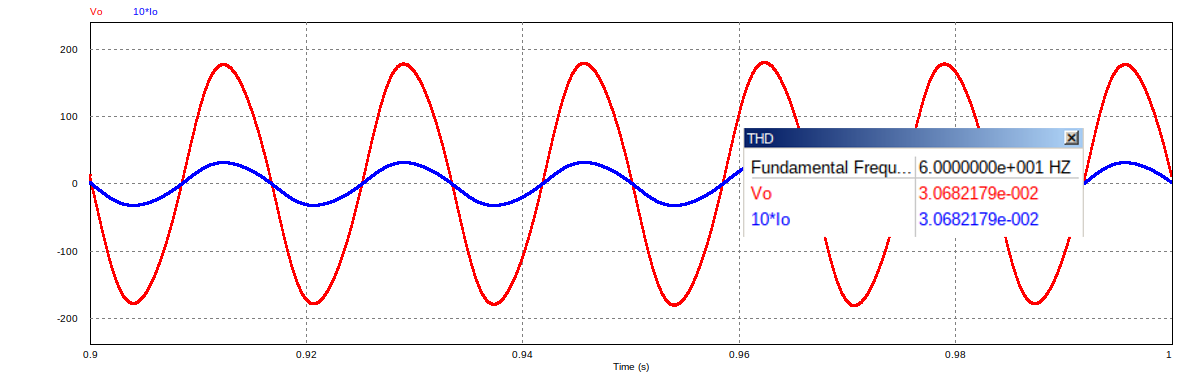
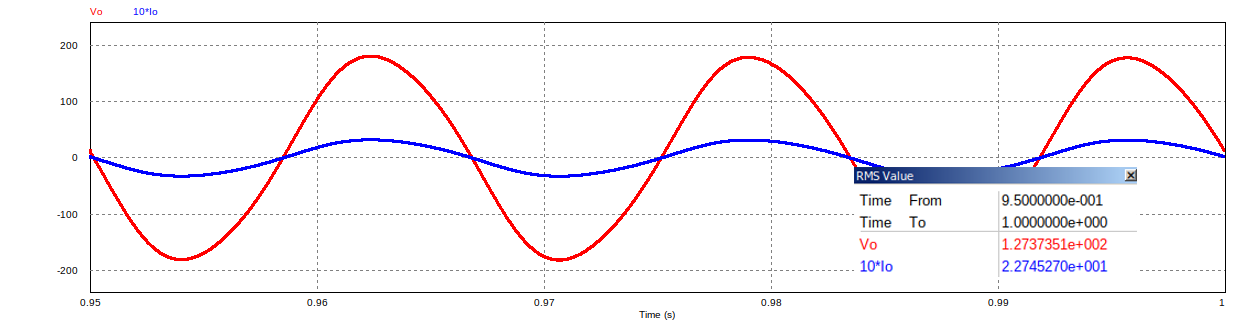
ftt changes, rewrite of analisis and conclusion

diff --git a/abntex2-modelo-trabalho-academico-TCC-EngaEletrica.tex b/abntex2-modelo-trabalho-academico-TCC-EngaEletrica.tex
@@ -1536,7 +1536,7 @@ Todas as figuras de circuitos desse capítulo são apresentadas também no anexo
 
 O circuito implementado no PSIM para o conjunto que utiliza o conversor cuk convencional conectado ao inversor bipolar, com rastreamento de ponto máximo de potência é apresentado na figura~\ref{fig:comp_conv_circ_clean}. Além disso, a tabela~\ref{tab:conv_bip_res} apresenta os principais resultados encontrados através da simulação deste circuito.
 
-Na figura~\ref{fig:out_conv_bip} são apresentados tensão e corrente de saída, ampliada em dez vezes, com informação da distorção harmônica total desses sinais, considerando frequência base de 60Hz. O espectro de frequências da tensão de saída obtida pode ser analisada na figura~\ref{fig:fft_conv_bip} e ajuda a compreender a THD apresentada na figura~\ref{fig:out_conv_bip}.
+Na figura~\ref{fig:out_conv_bip} são apresentados tensão e corrente de saída, ampliada em dez vezes. O espectro de frequências da tensão de saída obtida pode ser analisada na figura~\ref{fig:fft_conv_bip},  com informação da distorção harmônica total da tensão, considerando frequência base de 60Hz.
 
 Já a figura~\ref{fig:comp_conv_var_s_bip} mostra os sinais de entrada e saída do conjunto para alterações na irradiância que alimenta o painel fotovoltaico.
 
@@ -1556,7 +1556,7 @@ Já a figura~\ref{fig:comp_conv_var_s_bip} mostra os sinais de entrada e saída 
 		\hline
 		\rowcolor[HTML]{C0C0C0} 
 		\textbf{Corrente de saída eficaz} & \textbf{Corrente de ripple}   & \textbf{Tensão de saída eficaz} & \textbf{Tensão de Ripple}   & \textbf{Potência de saída}    & \textbf{Rendimento}   & \textbf{THD}                \\ \hline
-		\multicolumn{1}{|c|}{$2,26 A$}      & \multicolumn{1}{c|}{$20,21 mA$} & \multicolumn{1}{c|}{$126,55 V$}   & \multicolumn{1}{c|}{$1,26 V$} & \multicolumn{1}{c|}{$286,00 W$} & \multicolumn{1}{c|}{$95,33\%$} & \multicolumn{1}{c|}{$0,81\%$} \\ \hline
+		\multicolumn{1}{|c|}{$2,26 A$}      & \multicolumn{1}{c|}{$20,21 mA$} & \multicolumn{1}{c|}{$126,55 V$}   & \multicolumn{1}{c|}{$1,13 V$} & \multicolumn{1}{c|}{$286,00 W$} & \multicolumn{1}{c|}{$95,33\%$} & \multicolumn{1}{c|}{$1,20\%$} \\ \hline
 		\end{tabular}%
 	}
 	\caption{Valores obtidos para o inversor cuk convencional bipolar}
@@ -1591,7 +1591,9 @@ Já a figura~\ref{fig:comp_conv_var_s_bip} mostra os sinais de entrada e saída 
 
 O circuito implementado no PSIM para o conjunto que utiliza o conversor cuk convencional conectado ao inversor unipolar, com rastreamento de ponto máximo de potência é apresentado na figura~\ref{fig:comp_conv_circ_clean_unip}. Além disso, a tabela~\ref{tab:conv_unip_res} apresenta os principais resultados encontrados através da simulação deste circuito.
 
-Na figura~\ref{fig:out_conv_unip} são apresentados tensão e corrente de saída, ampliada em dez vezes, com informação da distorção harmônica total desses sinais, considerando frequência base de 60Hz. O espectro de frequências da tensão de saída obtida pode ser analisada na figura~\ref{fig:fft_conv_unip}.
+Na figura~\ref{fig:out_conv_unip} são apresentados tensão e corrente de saída, ampliada em dez vezes. O espectro de frequências da tensão de saída obtida pode ser analisada na figura~\ref{fig:fft_conv_unip},  com informação da distorção harmônica total da tensão, considerando frequência base de 60Hz.
+
+% com informação da distorção harmônica total desses sinais, considerando frequência base de 60Hz. O espectro de frequências da tensão de saída obtida pode ser analisada na figura~\ref{fig:fft_conv_unip}.
 
 Já a figura~\ref{fig:comp_conv_var_s_unip} mostra os sinais de entrada e saída do conjunto para alterações na irradiância que alimenta o painel fotovoltaico.
 
@@ -1603,7 +1605,7 @@ Já a figura~\ref{fig:comp_conv_var_s_unip} mostra os sinais de entrada e saída
 		\label{fig:comp_conv_circ_clean_unip}
 \end{figure}
 
-\begin{table}[H]
+\begin{table}[htb]
 	\captionsetup{justification=centering}
 	\centering
 	\resizebox{\textwidth}{!}{%
@@ -1611,14 +1613,14 @@ Já a figura~\ref{fig:comp_conv_var_s_unip} mostra os sinais de entrada e saída
 		\hline
 		\rowcolor[HTML]{C0C0C0} 
 		\textbf{Corrente de saída eficaz} & \textbf{Corrente de ripple}   & \textbf{Tensão de saída eficaz} & \textbf{Tensão de Ripple}   & \textbf{Potência de saída}    & \textbf{Rendimento}   & \textbf{THD}                \\ \hline
-		\multicolumn{1}{|c|}{$2,26 A$}      & \multicolumn{1}{c|}{$2,99 mA$} & \multicolumn{1}{c|}{$126,32 V$}   & \multicolumn{1}{c|}{$0,17 V$} & \multicolumn{1}{c|}{$284,93 W$} & \multicolumn{1}{c|}{$94,98\%$} & \multicolumn{1}{c|}{$1,18\%$} \\ \hline
+		\multicolumn{1}{|c|}{$2,26 A$}      & \multicolumn{1}{c|}{$2,99 mA$} & \multicolumn{1}{c|}{$126,42 V$}   & \multicolumn{1}{c|}{$0,17 V$} & \multicolumn{1}{c|}{$285,43 W$} & \multicolumn{1}{c|}{$95,13\%$} & \multicolumn{1}{c|}{$1,18\%$} \\ \hline
 		\end{tabular}%
 	}
 	\caption{Valores obtidos para o inversor cuk convencional unipolar}
 	\label{tab:conv_unip_res}
 \end{table}
 
-\begin{figure}[H]%
+\begin{figure}[htb]%
 	\captionsetup{justification=centering}
 	\centering
 		\includegraphics[width= \linewidth]{conv_Vo_10Io_comp_unip}
@@ -1626,10 +1628,10 @@ Já a figura~\ref{fig:comp_conv_var_s_unip} mostra os sinais de entrada e saída
 		\label{fig:out_conv_unip}
 \end{figure}
 
-\begin{figure}[H]%
+\begin{figure}[htb]%
 	\captionsetup{justification=centering}
 	\centering
-		\includegraphics[width= \linewidth]{fft_conv_unip}
+		\includegraphics[width= \linewidth]{fft_conv_unip_2}
 		\caption{Espectro de frequências da tensão de saída do inversor cuk convencional unipolar}
 		\label{fig:fft_conv_unip}
 \end{figure}
@@ -1646,7 +1648,7 @@ Já a figura~\ref{fig:comp_conv_var_s_unip} mostra os sinais de entrada e saída
 
 \subsubsection{Inversor cuk entrelaçado bipolar}
 
-A figura~\ref{fig:comp_interv_circ_clean} apresenta o circuito resultante da conexão do conversor cuk entrelaçado de duas fases ao inversor bipolar implementado no PSIM. Além disso, a tabela~\ref{tab:interv_bip_res} apresenta os principais resultados encontrados através da simulação deste circuito. Na figura~\ref{fig:out_interv_bip} são apresentados tensão e corrente de saída, ampliada em dez vezes, com informação da distorção harmônica total desses sinais. O espectro de frequências da tensão de saída obtida pode ser analisada na figura~\ref{fig:fft_interv_bip}.
+A figura~\ref{fig:comp_interv_circ_clean} apresenta o circuito resultante da conexão do conversor cuk entrelaçado de duas fases ao inversor bipolar implementado no PSIM. Além disso, a tabela~\ref{tab:interv_bip_res} apresenta os principais resultados encontrados através da simulação deste circuito. Na figura~\ref{fig:out_interv_bip} são apresentados tensão e corrente de saída, ampliada em dez vezes. O espectro de frequências da tensão de saída obtida pode ser analisada na figura~\ref{fig:fft_interv_bip},  com informação da distorção harmônica total da tensão, considerando frequência base de 60Hz.
 
 Já a figura~\ref{fig:comp_interv_var_s} mostra os sinais de entrada e saída do conjunto para alterações na irradiância que alimenta o painel fotovoltaico.
 
@@ -1658,7 +1660,7 @@ Já a figura~\ref{fig:comp_interv_var_s} mostra os sinais de entrada e saída do
 		\label{fig:comp_interv_circ_clean}
 \end{figure}
 
-\begin{table}[H]
+\begin{table}[htb]
 	\captionsetup{justification=centering}
 	\centering
 	\resizebox{\textwidth}{!}{%
@@ -1666,14 +1668,14 @@ Já a figura~\ref{fig:comp_interv_var_s} mostra os sinais de entrada e saída do
 		\hline
 		\rowcolor[HTML]{C0C0C0} 
 		\textbf{Corrente de saída eficaz} & \textbf{Corrente de ripple}   & \textbf{Tensão de saída eficaz} & \textbf{Tensão de Ripple}   & \textbf{Potência de saída}    & \textbf{Rendimento}   & \textbf{THD}                \\ \hline
-		\multicolumn{1}{|c|}{$2,27 A$}      & \multicolumn{1}{c|}{$9,47 mA$} & \multicolumn{1}{c|}{$126,94 V$}   & \multicolumn{1}{c|}{$0,53 V$} & \multicolumn{1}{c|}{$287,73 W$} & \multicolumn{1}{c|}{$95,91\%$} & \multicolumn{1}{c|}{$1,02\%$} \\ \hline
+		\multicolumn{1}{|c|}{$2,27 A$}      & \multicolumn{1}{c|}{$9,47 mA$} & \multicolumn{1}{c|}{$127,13 V$}   & \multicolumn{1}{c|}{$0,53 V$} & \multicolumn{1}{c|}{$288,63 W$} & \multicolumn{1}{c|}{$96,21\%$} & \multicolumn{1}{c|}{$1,02\%$} \\ \hline
 		\end{tabular}%
 	}
 	\caption{Valores obtidos para o inversor cuk entrelaçado bipolar}
 	\label{tab:interv_bip_res}
 \end{table}
 
-\begin{figure}[H]%
+\begin{figure}[htb]%
 	\captionsetup{justification=centering}
 	\centering
 		\includegraphics[width= \linewidth]{interv_Vo_10Io_comp}
@@ -1681,10 +1683,10 @@ Já a figura~\ref{fig:comp_interv_var_s} mostra os sinais de entrada e saída do
 		\label{fig:out_interv_bip}
 \end{figure}
 
-\begin{figure}[H]%
+\begin{figure}[htb]%
 	\captionsetup{justification=centering}
 	\centering
-		\includegraphics[width= \linewidth]{fft_interv_bip}
+		\includegraphics[width= \linewidth]{fft_interv_bip_2}
 		\caption{Espectro de frequências da tensão de saída do inversor cuk entrelaçado bipolar}
 		\label{fig:fft_interv_bip}
 \end{figure}
@@ -1699,7 +1701,7 @@ Já a figura~\ref{fig:comp_interv_var_s} mostra os sinais de entrada e saída do
 
 \subsubsection{Inversor cuk entrelaçado unipolar}
 
-A figura~\ref{fig:comp_interv_circ_clean_unip} apresenta o circuito resultante da conexão do conversor cuk entrelaçado de duas fases ao inversor unipolar implementado no PSIM. Além disso, a tabela~\ref{tab:interv_unip_res} apresenta os principais resultados encontrados através da simulação deste circuito. Na figura~\ref{fig:out_interv_unip} são apresentados tensão e corrente de saída, ampliada em dez vezes, com informação da distorção harmônica total desses sinais. O espectro de frequências da tensão de saída obtida pode ser analisada na figura~\ref{fig:fft_interv_unip}.
+A figura~\ref{fig:comp_interv_circ_clean_unip} apresenta o circuito resultante da conexão do conversor cuk entrelaçado de duas fases ao inversor unipolar implementado no PSIM. Além disso, a tabela~\ref{tab:interv_unip_res} apresenta os principais resultados encontrados através da simulação deste circuito. Na figura~\ref{fig:out_interv_unip} são apresentados tensão e corrente de saída, ampliada em dez vezes. O espectro de frequências da tensão de saída obtida pode ser analisada na figura~\ref{fig:fft_interv_unip},  com informação da distorção harmônica total da tensão, considerando frequência base de 60Hz.
 
 Já a figura~\ref{fig:comp_interv_var_s_unip} mostra os sinais de entrada e saída do conjunto para alterações na irradiância que alimenta o painel fotovoltaico.
 
@@ -1711,7 +1713,7 @@ Já a figura~\ref{fig:comp_interv_var_s_unip} mostra os sinais de entrada e saí
 		\label{fig:comp_interv_circ_clean_unip}
 \end{figure}
 
-\begin{table}[H]
+\begin{table}[htb]
 	\captionsetup{justification=centering}
 	\centering
 	\resizebox{\textwidth}{!}{%
@@ -1719,14 +1721,14 @@ Já a figura~\ref{fig:comp_interv_var_s_unip} mostra os sinais de entrada e saí
 		\hline
 		\rowcolor[HTML]{C0C0C0} 
 		\textbf{Corrente de saída eficaz} & \textbf{Corrente de ripple}   & \textbf{Tensão de saída eficaz} & \textbf{Tensão de Ripple}   & \textbf{Potência de saída}    & \textbf{Rendimento}   & \textbf{THD}                \\ \hline
-		\multicolumn{1}{|c|}{$2,27 A$}      & \multicolumn{1}{c|}{$2,98 mA$} & \multicolumn{1}{c|}{$126,91 V$}   & \multicolumn{1}{c|}{$0,16 V$} & \multicolumn{1}{c|}{$287,59 W$} & \multicolumn{1}{c|}{$95,86\%$} & \multicolumn{1}{c|}{$1,01\%$} \\ \hline
+		\multicolumn{1}{|c|}{$2,27 A$}      & \multicolumn{1}{c|}{$2,98 mA$} & \multicolumn{1}{c|}{$127,12 V$}   & \multicolumn{1}{c|}{$0,16 V$} & \multicolumn{1}{c|}{$288,58 W$} & \multicolumn{1}{c|}{$96,19\%$} & \multicolumn{1}{c|}{$1,01\%$} \\ \hline
 		\end{tabular}%
 	}
 	\caption{Valores obtidos para o inversor cuk entrelaçado unipolar}
 	\label{tab:interv_unip_res}
 \end{table}
 
-\begin{figure}[H]%
+\begin{figure}[htb]%
 	\captionsetup{justification=centering}
 	\centering
 		\includegraphics[width= \linewidth]{interv_Vo_10Io_comp_unip}
@@ -1734,10 +1736,10 @@ Já a figura~\ref{fig:comp_interv_var_s_unip} mostra os sinais de entrada e saí
 		\label{fig:out_interv_unip}
 \end{figure}
 
-\begin{figure}[H]%
+\begin{figure}[htb]%
 	\captionsetup{justification=centering}
 	\centering
-		\includegraphics[width= \linewidth]{fft_interv_unip}
+		\includegraphics[width= \linewidth]{fft_interv_uni_2}
 		\caption{Espectro de frequências da tensão de saída do inversor cuk entrelaçado unipolar}
 		\label{fig:fft_interv_unip}
 \end{figure}
@@ -1754,7 +1756,7 @@ Já a figura~\ref{fig:comp_interv_var_s_unip} mostra os sinais de entrada e saí
 
 \subsubsection{Inversor cuk integrado bipolar}
 
-O circuito implementado no PSIM para o inversor cuk integrado bipolar é apresentado na figura~\ref{fig:comp_integ_circ_clean}, já a figura~\ref{fig:out_integ_bip} mostra os sinais de tensão e corrente de saída, ampliada em dez vezes, além do valor medido para a distorção harmônica total dos mesmos. O espectro de frequências da tensão de saída obtida pode ser analisada na figura~\ref{fig:fft_integ_bip}.
+O circuito implementado no PSIM para o inversor cuk integrado bipolar é apresentado na figura~\ref{fig:comp_integ_circ_clean}, já a figura~\ref{fig:out_integ_bip} mostra os sinais de tensão e corrente de saída, ampliada em dez vezes. O espectro de frequências da tensão de saída obtida pode ser analisada na figura~\ref{fig:fft_integ_bip},  com informação da distorção harmônica total da tensão, considerando frequência base de 60Hz.
 
 Além disso, a tabela~\ref{tab:integ_bip_res} apresenta os principais resultados encontrados através da simulação deste circuito e a figura~\ref{fig:comp_integ_var_s} mostra os sinais de entrada e saída do conjunto para alterações na irradiância que alimenta o painel fotovoltaico.
 
@@ -1766,7 +1768,7 @@ Além disso, a tabela~\ref{tab:integ_bip_res} apresenta os principais resultados
 		\label{fig:comp_integ_circ_clean}
 \end{figure}
 
-\begin{table}[H]
+\begin{table}[htb]
 	\captionsetup{justification=centering}
 	\centering
 	\resizebox{\textwidth}{!}{%
@@ -1774,14 +1776,14 @@ Além disso, a tabela~\ref{tab:integ_bip_res} apresenta os principais resultados
 		\hline
 		\rowcolor[HTML]{C0C0C0} 
 		\textbf{Corrente de saída eficaz} & \textbf{Corrente de ripple}   & \textbf{Tensão de saída eficaz} & \textbf{Tensão de Ripple}   & \textbf{Potência de saída}    & \textbf{Rendimento}   & \textbf{THD}                \\ \hline
-		\multicolumn{1}{|c|}{$2,24 A$}      & \multicolumn{1}{c|}{$7,57 mA$} & \multicolumn{1}{c|}{$125,64 V$}   & \multicolumn{1}{c|}{$0,42 V$} & \multicolumn{1}{c|}{$281,87 W$} & \multicolumn{1}{c|}{$93,96\%$} & \multicolumn{1}{c|}{$25,53\%$} \\ \hline
+		\multicolumn{1}{|c|}{$2,24 A$}      & \multicolumn{1}{c|}{$7,57 mA$} & \multicolumn{1}{c|}{$125,63 V$}   & \multicolumn{1}{c|}{$0,42 V$} & \multicolumn{1}{c|}{$281,85 W$} & \multicolumn{1}{c|}{$93,95\%$} & \multicolumn{1}{c|}{$25,32\%$} \\ \hline
 		\end{tabular}%
 	}
 	\caption{Valores obtidos para o inversor cuk integrado bipolar}
 	\label{tab:integ_bip_res}
 \end{table}
 
-\begin{figure}[H]%
+\begin{figure}[htb]%
 	\captionsetup{justification=centering}
 	\centering
 		\includegraphics[width= \linewidth]{integ_Vo_10Io_comp}
@@ -1789,10 +1791,10 @@ Além disso, a tabela~\ref{tab:integ_bip_res} apresenta os principais resultados
 		\label{fig:out_integ_bip}
 \end{figure}
 
-\begin{figure}[H]%
+\begin{figure}[htb]%
 	\captionsetup{justification=centering}
 	\centering
-		\includegraphics[width= \linewidth]{fft_integ_bip}
+		\includegraphics[width= \linewidth]{fft_integ_bip_2}
 		\caption{Espectro de frequências da tensão de saída do inversor cuk integrado bipolar}
 		\label{fig:fft_integ_bip}
 \end{figure}
@@ -1807,7 +1809,7 @@ Além disso, a tabela~\ref{tab:integ_bip_res} apresenta os principais resultados
 
 \subsubsection{Inversor cuk integrado unipolar}
 
-O circuito implementado no PSIM para o inversor cuk integrado unipolar é apresentado na figura~\ref{fig:comp_integ_circ_clean_unip}, já a figura~\ref{fig:out_integ_unip} mostra os sinais de tensão e corrente de saída, ampliada em dez vezes, além do valor medido para a distorção harmônica total dos mesmos. O espectro de frequências da tensão de saída obtida pode ser analisada na figura~\ref{fig:fft_integ_unip}.
+O circuito implementado no PSIM para o inversor cuk integrado unipolar é apresentado na figura~\ref{fig:comp_integ_circ_clean_unip}, já a figura~\ref{fig:out_integ_unip} mostra os sinais de tensão e corrente de saída, ampliada em dez vezes. O espectro de frequências da tensão de saída obtida pode ser analisada na figura~\ref{fig:fft_integ_unip},  com informação da distorção harmônica total da tensão, considerando frequência base de 60Hz.
 
 Além disso, a tabela~\ref{tab:integ_unip_res} apresenta os principais resultados encontrados através da simulação deste circuito e a figura~\ref{fig:comp_integ_var_s_unip} mostra os sinais de entrada e saída do conjunto para alterações na irradiância que alimenta o painel fotovoltaico.
 
@@ -1819,7 +1821,7 @@ Além disso, a tabela~\ref{tab:integ_unip_res} apresenta os principais resultado
 		\label{fig:comp_integ_circ_clean_unip}
 \end{figure}
 
-\begin{table}[H]
+\begin{table}[htb]
 	\captionsetup{justification=centering}
 	\centering
 	\resizebox{\textwidth}{!}{%
@@ -1827,14 +1829,14 @@ Além disso, a tabela~\ref{tab:integ_unip_res} apresenta os principais resultado
 		\hline
 		\rowcolor[HTML]{C0C0C0} 
 		\textbf{Corrente de saída eficaz} & \textbf{Corrente de ripple}   & \textbf{Tensão de saída eficaz} & \textbf{Tensão de Ripple}   & \textbf{Potência de saída}    & \textbf{Rendimento}   & \textbf{THD}                \\ \hline
-		\multicolumn{1}{|c|}{$2,27 A$}      & \multicolumn{1}{c|}{$2,86 mA$} & \multicolumn{1}{c|}{$127,07 V$}   & \multicolumn{1}{c|}{$0,16 V$} & \multicolumn{1}{c|}{$288,33 W$} & \multicolumn{1}{c|}{$96,11\%$} & \multicolumn{1}{c|}{$3,07\%$} \\ \hline
+		\multicolumn{1}{|c|}{$2,27 A$}      & \multicolumn{1}{c|}{$2,86 mA$} & \multicolumn{1}{c|}{$127,37 V$}   & \multicolumn{1}{c|}{$0,16 V$} & \multicolumn{1}{c|}{$289,71 W$} & \multicolumn{1}{c|}{$96,11\%$} & \multicolumn{1}{c|}{$3,07\%$} \\ \hline
 		\end{tabular}%
 	}
 	\caption{Valores obtidos para o inversor cuk integrado unipolar}
 	\label{tab:integ_unip_res}
 \end{table}
 
-\begin{figure}[H]%
+\begin{figure}[htb]%
 	\captionsetup{justification=centering}
 	\centering
 		\includegraphics[width= \linewidth]{integ_Vo_10Io_comp_unip}
@@ -1842,10 +1844,10 @@ Além disso, a tabela~\ref{tab:integ_unip_res} apresenta os principais resultado
 		\label{fig:out_integ_unip}
 \end{figure}
 
-\begin{figure}[H]%
+\begin{figure}[htb]%
 	\captionsetup{justification=centering}
 	\centering
-		\includegraphics[width= \linewidth]{fft_integ_unip}
+		\includegraphics[width= \linewidth]{fft_integ_unip_2}
 		\caption{Espectro de frequências da tensão de saída do inversor cuk integrado unipolar}
 		\label{fig:fft_integ_unip}
 \end{figure}
@@ -1866,19 +1868,19 @@ Além disso, a tabela~\ref{tab:integ_unip_res} apresenta os principais resultado
 %MPPT
 Ao analisar as figuras~\ref{fig:comp_conv_var_s_bip}, \ref{fig:comp_conv_var_s_unip}, \ref{fig:comp_interv_var_s}, \ref{fig:comp_interv_var_s_unip}, \ref{fig:comp_integ_var_s} e \ref{fig:comp_integ_var_s_unip} percebe-se que o sistema de rastreamento de ponto de máxima potência apresenta o mesmo comportamento para todos os conjuntos simulados para alterações da irradiância solar, confirmando o comportamento esperado.
 
-Como pode ser visto na figura~\ref{fig:IV_pv_cs}, o ponto de máxima potência do painel fotovoltaico, para variações da irradiância apresenta aproximadamente a mesma tensão para uma vasta gama de valores, enquanto a corrente máxima gerada é reduzida. 
+Como pode ser visto na figura~\ref{fig:IV_pv_cs}, o ponto de máxima potência do painel fotovoltaico para variações da irradiância apresenta, aproximadamente, a mesma tensão para uma vasta gama de valores enquanto a corrente máxima gerada é reduzida. 
 
-É possível perceber também, uma variação na tensão de saída do painel e, consequentemente também na corrente fornecida, durante todo o período amostrado. Essa oscilação é esperada devido ao algoritmo de rastreamento utilizado, que oscila continuamente em torno do ponto de máxima potência. Esse comportamento propicia, também uma adequação mais rápida a variações de irradiância, uma vez que a varredura ocorre durante todo o funcionamento do sistema, inclusive após o ponto ótimo ter sido encontrado.
+É possível perceber também, uma variação na tensão de saída do painel e, consequentemente, também na corrente fornecida durante todo o período amostrado. Essa oscilação é esperada devido ao algoritmo de rastreamento utilizado, que oscila continuamente em torno do ponto de máxima potência. Esse comportamento propicia também uma adequação mais rápida a variações de irradiância, uma vez que a varredura ocorre durante todo o funcionamento do sistema, inclusive após o ponto ótimo ter sido encontrado.
 
 %SINAL DE SAIDA
-Em relação á tensão de saída, enquanto a maior parte das implementações conseguiu fornecer tensão compatível com a conexão à rede elétrica, o inversor integrado bipolar não se comportou como esperado, como pode ser percebido ao se comparar a figura~\ref{fig:out_integ_bip} com as demais figuras que representam o sinal de saída dos conjuntos: \ref{fig:out_conv_bip}, \ref{fig:out_conv_unip}, \ref{fig:out_interv_bip}, \ref{fig:out_interv_unip} e \ref{fig:out_integ_unip}.
+Em relação à tensão de saída, enquanto a maior parte das implementações conseguiu fornecer tensão compatível com a conexão à rede elétrica, o inversor integrado bipolar não se comportou como esperado, como pode ser percebido ao se comparar a figura~\ref{fig:out_integ_bip} com as demais figuras que representam o sinal de saída dos conjuntos: \ref{fig:out_conv_bip}, \ref{fig:out_conv_unip}, \ref{fig:out_interv_bip}, \ref{fig:out_interv_unip} e \ref{fig:out_integ_unip}.
 
 Apesar desse inversor apresentar tensão eficaz igual ao valor esperado, de 127V, a tensão fornecida por este apresenta uma componente contínua de aproximadamente 30V. A ausência de nível 0 no estágio inversor faz com que, a tensão fornecida pelo painel não seja filtrada no conversor e apareça na saída do conjunto. O inversor cuk integrado unipolar não apresenta o mesmo problema devido ao nível adicional apresentado pelo seu estágio inversor.
 
 %RENDIMENTO/QUALIDADE
-A tabela~\ref{tab:final_results_quality} apresenta os resultados de rendimento, distorção harmônica total, tensão e corrente de ripple para os seis conjuntos simulados.
+A tabela~\ref{tab:final_results_quality} apresenta os resultados de rendimento, distorção harmônica total, tensão e corrente de ripple para os seis conversores finais simulados.
 
-Em relação às variações de corrente e tensão, percebe-se que, enquanto os inversores bipolares apresentam valores consideravelmente distintos entre si, os unipolares apresentam valores sempre bem próximos. Esse comportamento indica que o PWM senoidal unipolar utilizado para controlar o estágio inversor dessas implementações é capaz de reduzir a influência do estágio subidor de tensão de tal forma que este possa ser ignorado para essas variáveis. Já entre os inversores bipolares, o inversor integrado apresentou variações menores que os demais o que não era esperado. Entretanto, por apresentar componente contínua não tensão será desconsiderado.
+Em relação às variações de corrente e tensão, percebe-se que, enquanto os inversores bipolares apresentam valores consideravelmente distintos entre si, os unipolares apresentam valores sempre bem próximos. Esse comportamento indica que o PWM senoidal unipolar utilizado para controlar o estágio inversor dessas implementações é capaz de reduzir a influência do estágio subidor de tensão de tal forma que este possa ser ignorado para essas variáveis. Já entre os inversores bipolares, o inversor integrado apresentou variações menores que os demais o que não era esperado. Entretanto, por apresentar componente contínua na tensão será desconsiderado.
 
 Ao analisar as variações de tensão e corrente de saída dos inversores cuk convencional bipolar e cuk entrelaçado bipolar pode-se perceber que os valores apresentados pela implementação entrelaçada são aproximadamente metade dos apresentados pela convencional. Esse comportamento está de acordo com o esperado, com as oscilações reduzindo de acordo com o aumento do número de fases do inversor.
 
@@ -1904,13 +1906,13 @@ Ao analisar as variações de tensão e corrente de saída dos inversores cuk co
 		\hline
 		\multicolumn{2}{|l|}{\cellcolor[HTML]{FFFFFF}}                                 & Rendimento & \cellcolor[HTML]{FFFFFF}Variação da tensão de saída & \cellcolor[HTML]{FFFFFF}Variação da corrente de saída & \cellcolor[HTML]{FFFFFF}THD \\ \hline
 		\rowcolor[HTML]{DBDBDB} 
-		\cellcolor[HTML]{FFFFFF}                                            & bipolar  & $95,44\%$  & $1,13V$                                             & $20,21mA$                                             & $1,20\%$                    \\ \cline{2-6} 
-		\multirow{-2}{*}{\cellcolor[HTML]{FFFFFF}Inversor cuk convencional} & unipolar & $94,98\%$  & $0,17V$                                             & $2,99mA$                                              & $1,18\%$                    \\ \hline
+		\cellcolor[HTML]{FFFFFF}                                            & bipolar  & $95,33\%$  & $1,13V$                                             & $20,21mA$                                             & $1,20\%$                    \\ \cline{2-6} 
+		\multirow{-2}{*}{\cellcolor[HTML]{FFFFFF}Inversor cuk convencional} & unipolar & $95,13\%$  & $0,17V$                                             & $2,99mA$                                              & $1,18\%$                    \\ \hline
 		\rowcolor[HTML]{DBDBDB} 
-		\cellcolor[HTML]{FFFFFF}                                            & bipolar  & $95,91\%$  & $0,53V$                                             & $9,47mA$                                              & $1,02\%$                    \\ \cline{2-6} 
-		\multirow{-2}{*}{\cellcolor[HTML]{FFFFFF}Inversor cuk entrelaçado}  & unipolar & $95,86\%$  & $0,16V$                                             & $2,98mA$                                              & $1,01\%$                    \\ \hline
+		\cellcolor[HTML]{FFFFFF}                                            & bipolar  & $96,21\%$  & $0,53V$                                             & $9,47mA$                                              & $1,02\%$                    \\ \cline{2-6} 
+		\multirow{-2}{*}{\cellcolor[HTML]{FFFFFF}Inversor cuk entrelaçado}  & unipolar & $96,19\%$  & $0,16V$                                             & $2,98mA$                                              & $1,01\%$                    \\ \hline
 		\rowcolor[HTML]{DBDBDB} 
-		\cellcolor[HTML]{FFFFFF}                                            & bipolar  & $93,96\%$  & $0,42V$                                             & $7,57mA$                                              & $25,53\%$                   \\ \cline{2-6} 
+		\cellcolor[HTML]{FFFFFF}                                            & bipolar  & $93,95\%$  & $0,42V$                                             & $7,57mA$                                              & $25,32\%$                   \\ \cline{2-6} 
 		\multirow{-2}{*}{\cellcolor[HTML]{FFFFFF}Inversor cuk integrado}    & unipolar & $96,11\%$  & $0,16V$                                             & $2,86mA$                                              & $3,07\%$                    \\ \hline
 		\end{tabular}%
 	}
@@ -1918,31 +1920,31 @@ Ao analisar as variações de tensão e corrente de saída dos inversores cuk co
 	\label{tab:final_results_quality}
 \end{table}
 
-Em relação ao rendimento percebe-se que, em geral, inversores unipolares apresentam rendimento um pouco inferior à mesmas implementações bipolares, ou seja, pra se obter sinais de saída menos poluídos o inversor unipolar sacrifica uma pequena parcela da potência gerada, devido a seu terceiro nível, 0, no qual não é transmitida potência para a saída.
+Em relação ao rendimento percebe-se que, em geral, inversores unipolares apresentam rendimento um pouco inferior às mesmas implementações bipolares, ou seja, pra se obter sinais de saída menos poluídos o inversor unipolar sacrifica uma pequena parcela da potência gerada, devido a seu terceiro nível, 0, no qual não é transmitida potência para a saída.
 
-A exceção a essa regra é o inversor cuk integrado. Enquanto sua implementação bipolar apresenta o pior rendimento entre os inversores utilizados a implementação unipolar, que resolve o problema de tensão contínua na saída do conjunto apresenta o maior rendimento, de $96,11\%$, enquanto o segundo maior é o do inversor cuk entrelaçado bipolar, de $95,91\%$. Enquanto o resultado do inversor integrado pode ser atribuído ao número reduzido de componentes capazes de dissipar energia dessa implementação, o do inverso entrelaçado está relacionado, principalmente ao menor estresse de chaveamento nos transistores do estágio elevador de tensão, devido ao aumento do número de fases responsáveis por lidar com a mesma potência inserida.
+A exceção a essa regra é o inversor cuk integrado. Enquanto sua implementação bipolar apresenta o pior rendimento entre os inversores utilizados a implementação unipolar, que resolve o problema de tensão contínua na saída do conjunto apresenta o terceiro maior rendimento, de $96,11\%$, inferior apenas ao apresentado pelas implementações do inversor cuk entrelaçado, $95,21\%$ para o inversor bipolar e $95,19\%$ para o unipolar. Enquanto o resultado do inversor integrado pode ser atribuído ao número reduzido de componentes capazes de dissipar energia dessa implementação, o dos inversores entrelaçados está relacionado, principalmente ao menor estresse de chaveamento nos transistores do estágio elevador de tensão, devido ao aumento do número de fases responsáveis por lidar com a mesma potência inserida.
 
-Segundo a recomendação IEEE-519, para sistemas com tensão de barramento inferiores a 1kV a distorção harmônica total deve ser inferior a $8\%$ \cite{IEEE_519}. Dos inversores implementados, apenas o inversor integrado unipolar não respeita esse limite.
+Segundo a recomendação IEEE-519, para sistemas com tensão de barramento inferiores a 1kV a distorção harmônica total deve ser inferior a $8\%$ \cite{IEEE_519}. Dos inversores implementados, apenas o inversor integrado bipolar não respeita esse limite. Esta implementação apresenta, além da componente contínua já comentada, valores mais significativos que as demais nas componentes harmônicas da frequência fundamental de segunda e terceira ordem, principalmente, como pode ser percebido através da comparação das figuras~\ref{fig:fft_conv_bip}, \ref{fig:fft_conv_unip}, \ref{fig:fft_interv_bip}, \ref{fig:fft_interv_unip}, \ref{fig:fft_integ_bip} e \ref{fig:fft_integ_unip}. 
 
-Percebe-se, entre as implementações restantes que os inversores que utilizam o controle unipolar apresentam distorção harmônica total um pouco inferior aos que utilizam o controle bipolar, devido à maior atenuação dos harmônicos presentes.
+Percebe-se, entre as implementações restantes, que os inversores que utilizam o controle unipolar apresentam distorção harmônica total um pouco inferior aos que utilizam o controle bipolar devido, principalmente, à ausência dos componentes harmônicas pares da frequência base na tensão de saída, como pode ser visto nas figuras~\ref{fig:fft_conv_unip}, \ref{fig:fft_interv_unip} e \ref{fig:fft_integ_unip}.
 
-Por fim, apesar de apresentar variações de tensão e corrente de saída próximas aos valores das demais implementações unipolares, o inversor cuk integrado unipolar apresenta distorção harmônica total praticamente três vezes maior que os demais. Esse valor se ocorre, principalmente por uma maior presença do harmônico de terceira ordem devido à menor atenuação dos harmônicos nesse circuito. Essa menor atenuação, por sua vez é devida à simplicidade do circuito, que não apresenta um filtro entre os estágios elevador de tensão e inversor.
+Por fim, apesar de apresentar variações de tensão e corrente de saída próximas aos valores das demais implementações unipolares, o inversor cuk integrado unipolar apresenta distorção harmônica total praticamente três vezes maior que os demais. Esse valor ocorre, principalmente por uma maior presença do harmônico de terceira ordem (180Hz), como pode ser visto na figura~\ref{fig:fft_integ_unip}, devido à menor atenuação dos harmônicos nesse circuito que, por sua vez, é devida à simplicidade do circuito, o qual não apresenta um filtro entre os estágios elevador de tensão e inversor. O harmônico de segunda ordem (120Hz) não está presente nesse inversor, assim como em sua implementação bipolar, como já citado.
 
 \chapter{Conclusão}
 
 O desenvolvimento de um sistema para fontes fotovoltaicas conectadas a rede elétrica com microinversores baseados no conversor cuk foi, em geral, bem sucedido. O sistema de rastreamento de ponto máximo de potência implementado agiu da forma esperada em conjunto com os inversores, de modo a manter a tensão estável e o painel fotovoltaico fornecendo a máxima potência para valores variáveis da irradiância solar.
 
-Com exceção do inversor cuk integrado bipolar, as demais implementações foram capazes de fornecer tensão senoidal com amplitude e frequência compatíveis com a rede elétrica e com distorção harmônica máxima abaixo do limite recomendado pela IEEE-519.
+Com exceção do inversor cuk integrado bipolar, as demais implementações foram capazes de fornecer tensão senoidal com amplitude e frequência compatíveis com a rede elétrica e com distorção harmônica máxima dentro do limite recomendado pela IEEE-519.
 
 Assim como esperado, os inversores unipolares apresentaram melhores resultados em relação à qualidade dos sinais de saída, em detrimento da potência disponibilizada. Além disso, os inversores entrelaçados, mais complexos que os convencionais apresentaram melhores resultados tanto em relação ao rendimento quanto em relação à qualidade do sinal entregue. 
 
-Apesar de mais simples, o inversor integrado apresentou melhor rendimento entre os analisados, sendo um forte candidato para a implementação de microinversores comerciais, já que sua implementação apresenta um custo inferior. Entretanto, esse inversor deve necessariamente apresentar estágio inversor unipolar que apresente um nível de tensão nulo, além dos demais.
+Apesar de mais simples, o inversor integrado apresentou rendimento superior à implementação convencional, sendo um forte candidato para a implementação de microinversores comerciais, já que sua implementação apresenta um custo inferior. Entretanto, esse inversor deve necessariamente apresentar estágio inversor unipolar.
 
-Para um sistema em que o foco seja, além do rendimento, a menor distorção harmônica possível, pode ser utilizado o inversor cuk entrelaçado de duas fases unipolar, que apresenta rendimento próximo ao do inversor cuk integrado unipolar, mas com distorção harmônica equivalente a um terço à deste ultimo. Essa implementação é, porém mais complexa e cara, devido ao maior número de componentes necessários.
+Para um sistema em que o foco seja, além do rendimento, a menor distorção harmônica possível, podem ser utilizadas as implementações entrelaçadas, que apresentam os melhores rendimentos entre os inversores analisados. Esses inversores são, porém, mais complexos e caros devido ao maior número de componentes necessários.
 
-Um sistema composto por inversores integrados unipolares, apesar de ainda apresentarem um controle mais complexo na etapa inversora, representam uma implementação mais barata e menor, além de um ótimo rendimento e se adequar à recomendação técnica de qualidade relativa à distorção harmônica.
+Um sistema composto por inversores integrados unipolares, apesar de ainda apresentarem um controle mais complexo na etapa inversora, representam uma implementação mais barata com rendimento pŕoximo ao obtido pelos inversores entrelaçados, além de se adequar à recomendação técnica de qualidade relativa à distorção harmônica.
 
-Dessa forma, a implementação de um sistema para conexão de fontes fotovoltaicas a rede baseado em microinversores de baixa potência é uma alternativa possível e viável ao atual modelo de inversores de alta potência. 
+Dessa forma, a implementação de um sistema para conexão de fontes fotovoltaicas conectadas à rede baseado em microinversores de baixa potência é uma alternativa possível e viável ao atual modelo de inversores de alta potência. 
 
 % ---
 \bookmarksetup{startatroot}% 
